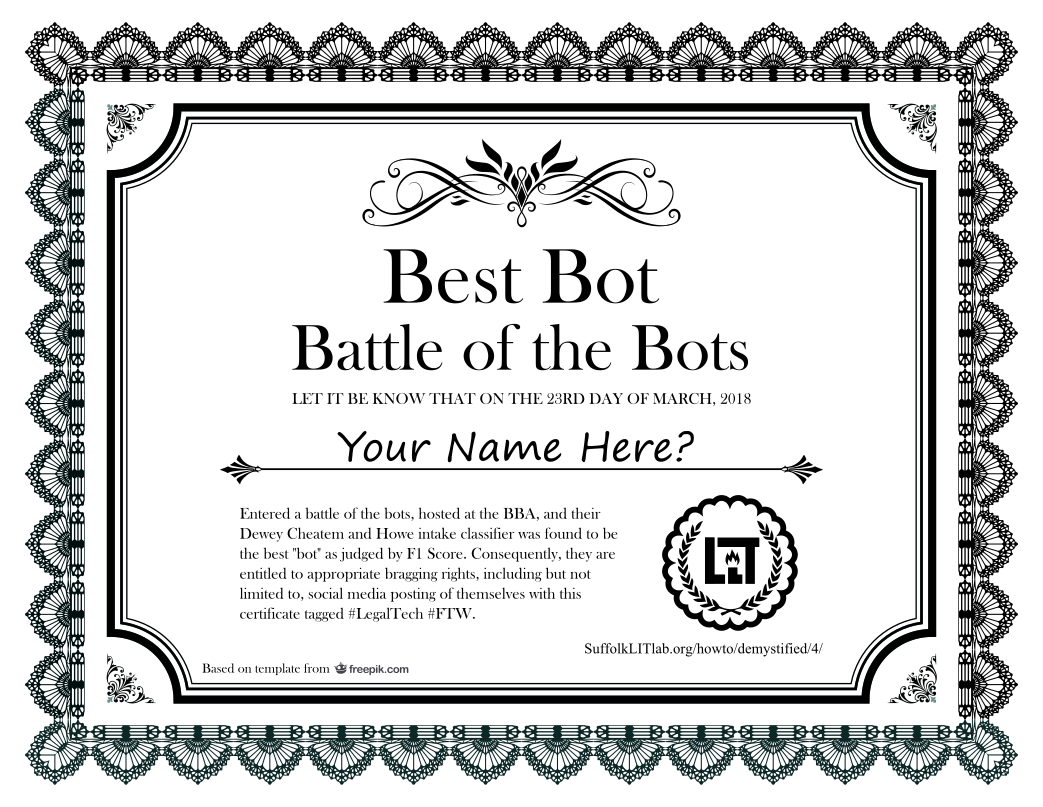
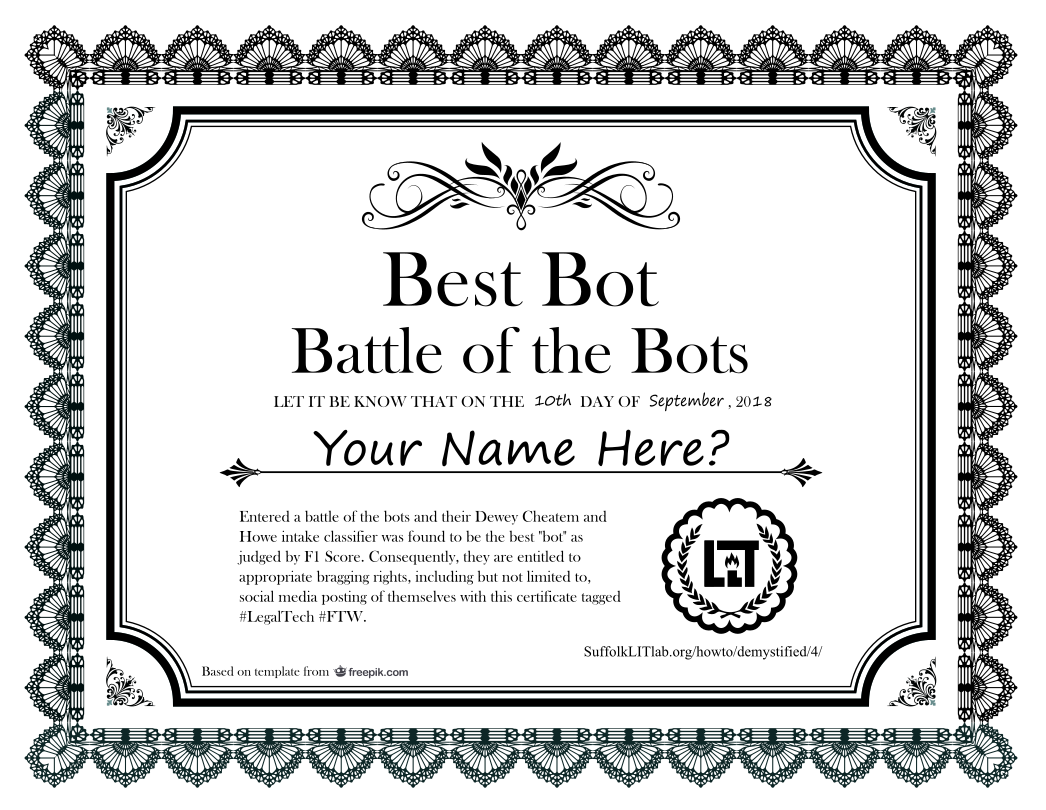
images

Changed region(s): [[0.0, 0.031, 0.9818, 0.9913], [0.2148, 0.6196, 0.5829, 0.7745]]

diff --git a/howto/demystified/4/index.html b/howto/demystified/4/index.html
@@ -61,7 +61,10 @@
 	</div>
 
 	<h2>Challenge: Codifying Gut Decisions</h2>
-  <p>
+  <div class="r_img_embed" style="max-width:350px;">
+    <img src="../images/certificate_w_placeholder.png" title="certificate of achievement" alt="certificate of achievement" width="100%"/>
+    <div class="caption">Lab Students stand to win this certificate of achievement.</div>
+  </div>  <p>
 		<i>Estimated Time (Reading &amp; Exercises): 1-3 hours.</i>
 	</p>
   <p style="background:#eee;padding:10px 15px;">
@@ -72,7 +75,7 @@
     This is an end of unit challenge. If you haven't completed the <a href="../1/">data wrangling</a> and <a href="../1/">training</a> exercises, you'll want to start there as this won't make sense otherwise.
   </p>
   <p>
-    Open your copy of the Azure Notebooks library we cloned earlier. Find the file named <i>Gut_Challenge.ipynb</i> and click it to open the notebook. Then work through the code.
+    Open your copy of the Azure Notebooks library we cloned earlier. Find the file named <i>Gut_Challenge.ipynb</i> and click it to open the notebook. Then work through the code. If you're a Lab member, chances are you may be competing for your own copy of the certificate of achievement pictured here. 
   </p>
   <div style="text-align:center;margin:0px auto;width:100%;padding:8px 0 40px 0px;">
     <a href="../images/Gut.png"><img src="../images/Gut.png" alt="screen shot" style="width:100%" border="0"/></a>
